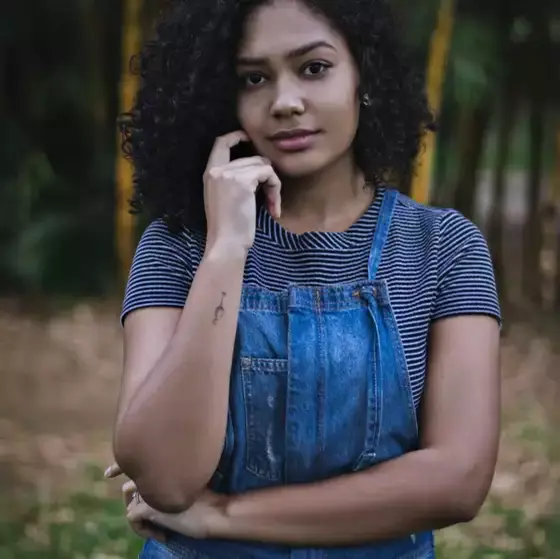
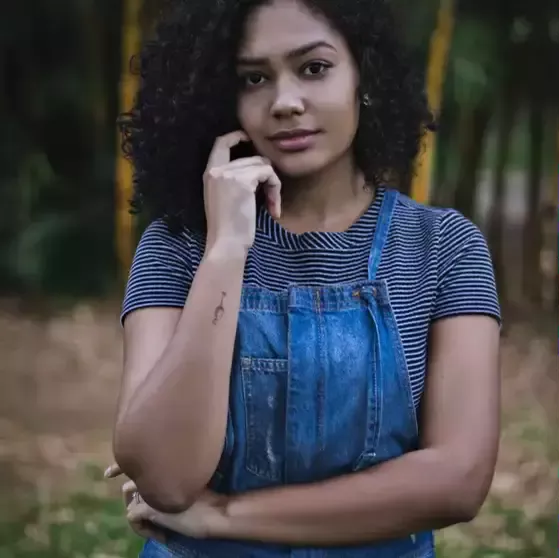
ajout meta twitter + test redimension nina pour lighthouse

diff --git a/index.html b/index.html
@@ -5,7 +5,7 @@
     <meta charset="UTF-8" />
     <meta
       name="description"
-      content="Photographe indépendante basée à Bordeaux, spécialisée dans la capture de moments uniques. Services de photographie pour portraits, mariages, événements, familles, et plus. Créativité, passion et professionnalisme à votre service."
+      content="Photographe à Bordeaux, je capture vos moments uniques : portraits, mariages, événements, familles. Créativité, passion et professionnalisme."
     />
     <title>Nina Carducci - Photographe</title>
     <meta property="og:type" content="website" />
@@ -25,6 +25,13 @@
     />
     <meta property="og:image:width" content="560" />
     <meta property="og:image:height" content="559" />
+
+    <meta name="twitter:card" content="summary_large_image">
+    <meta name="twitter:site" content="@NinaCarducci">
+    <meta name="twitter:title" content="Nina Carducci - Photographe">
+    <meta name="twitter:description" content="Photographe indépendante basée à Bordeaux, spécialisée dans la capture de moments uniques. Services de photographie pour portraits, mariages, événements, familles, et plus.">
+    <meta name="twitter:image" content="https://mikelcks.github.io/OC_Projet_5_Nina_Carducci/assets/images/nina.webp">
+
     <meta name="robots" content="index, follow" />
     <meta name="author" content="Nina Carducci" />
     <link rel="stylesheet" href="./assets/bootstrap/bootstrap.min.css" defer/>
